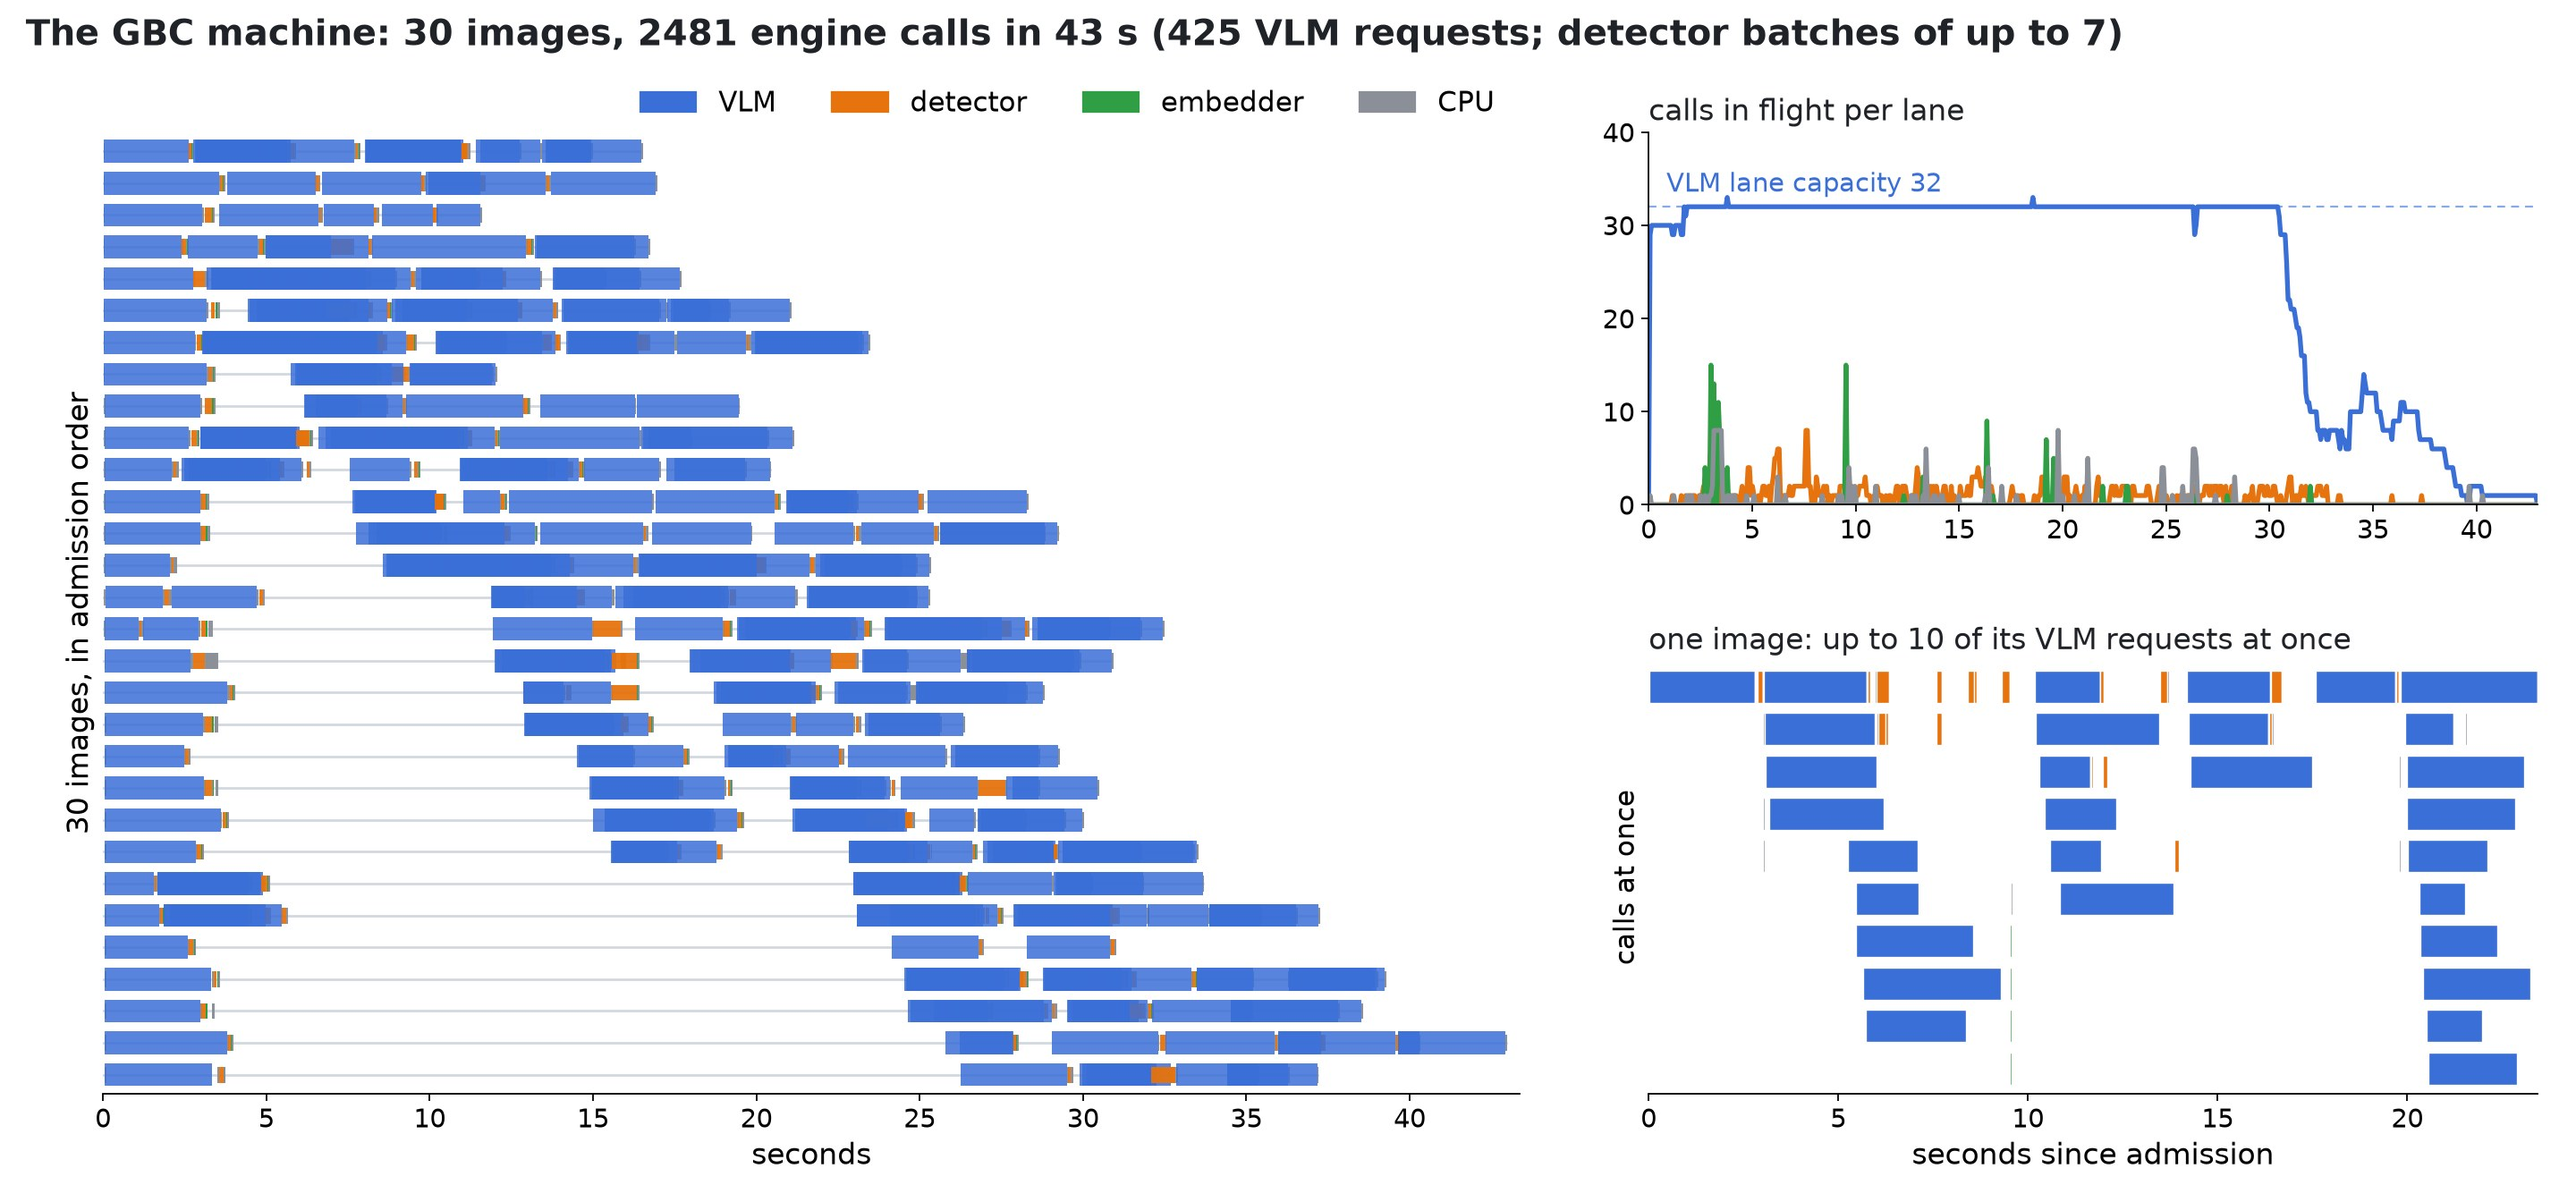
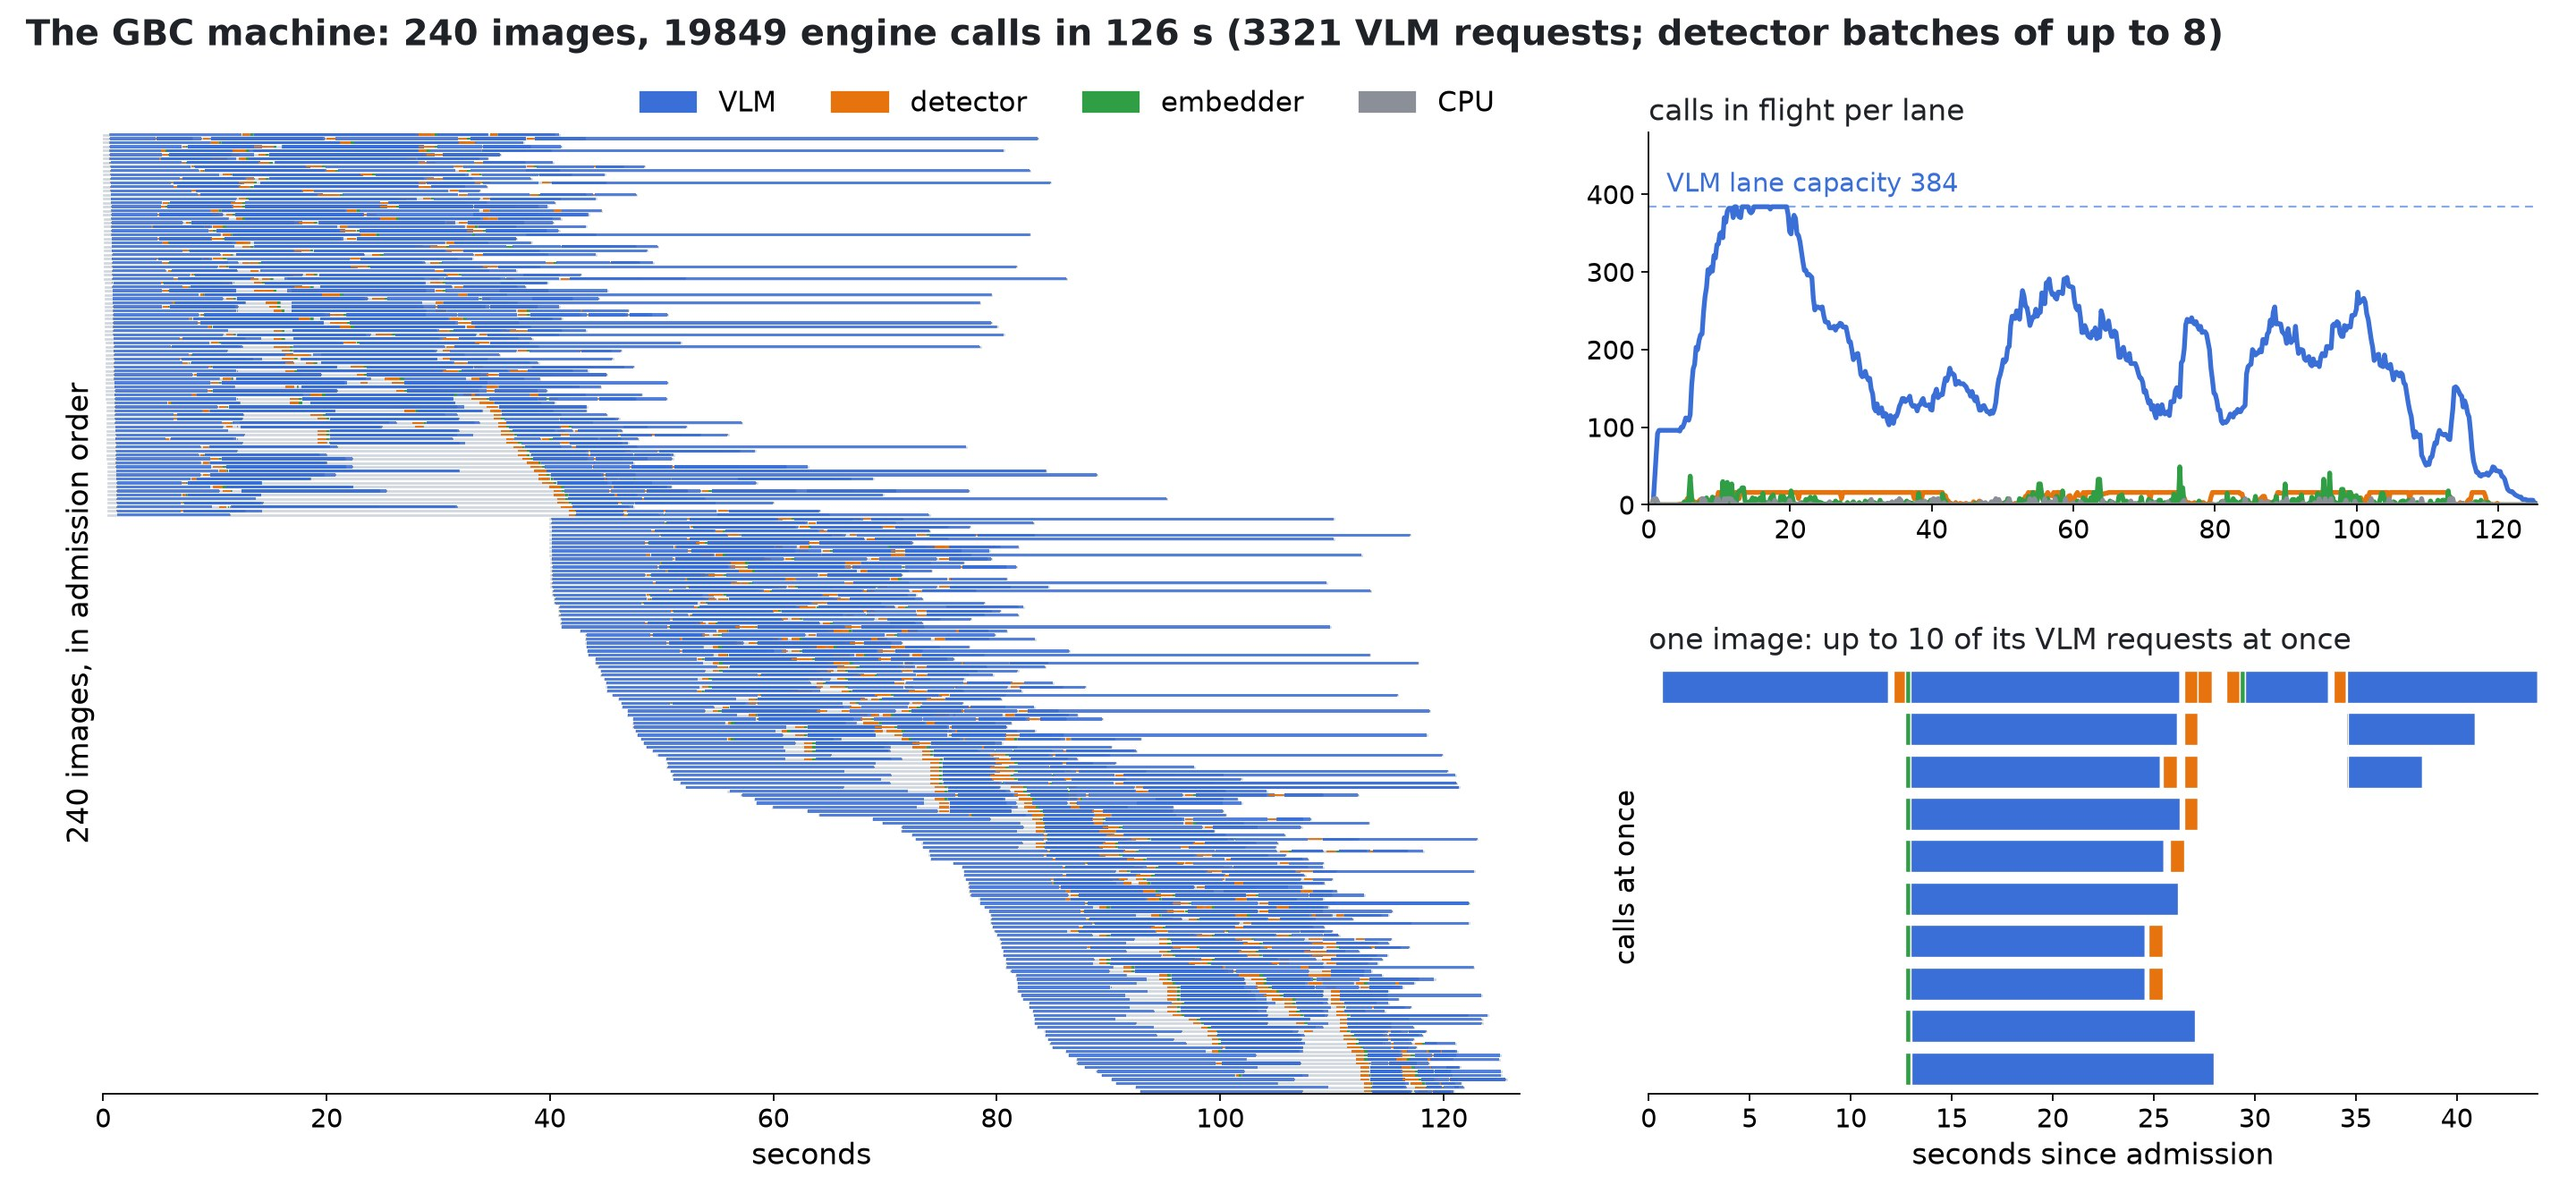
docs: README on the RTX 5090 machine, engine hosts and KohakuvLLM
Highlights carry the measured numbers (2.06 img/s per RTX 5090, 8.17 on four, KohakuvLLM 11.4 to
35.0 req/s). The machine chart shows the connectors and a gbc host per card; Measured leads with
the 5090 engine-host table and KohakuvLLM's steps; the layout chart no longer uses the reserved
id graph. The machine view is a 240-image run on one RTX 5090 with the card config's defaults.
engine-host.md names the default layout: one host per card.

diff --git a/scripts/docs/machine_view.py b/scripts/docs/machine_view.py
@@ -4,12 +4,12 @@ Left, every image job as a row and every engine call it made as a bar on its lan
 the run reads as images overlapping on shared engines. Right, the calls in flight on each lane
 over time, and one image job alone: its calls stacked where they overlap.
 
-The run behind the README's figure: ``configs/machine/replay_text.py`` (30 recorded images on
-replay engines at their recorded latencies, VLM capacity 32) with ``machine.knobs.events = "all"``
-and a run report.
+The run behind the README's figure: ``configs/machine/qwen35_card.py`` with the ``mid`` and
+``sam3`` control presets on one RTX 5090 (240 COCO val2017 images, engines in a host process,
+384 VLM lanes) with ``GBC_EVENTS=all`` and a run report (``GBC_OUT``).
 
     python scripts/docs/machine_view.py runs/machine/view/report/events.jsonl \
-        docs/assets/machine.jpg
+        docs/assets/machine.jpg --capacity 384
 """
 
 import argparse

diff --git a/README.md b/README.md
@@ -27,9 +27,21 @@ call the sequential run cannot tell apart, and turns their model calls into batc
 
 ## Highlights
 
+- **2.06 images/s on one RTX 5090, 8.17 on four.** Qwen3.5-4B, SAM 3 and EmbeddingGemma on each
+  card, about 15 vertices and 27 captions per graph; each image is 41 s in the machine at the
+  median, however long the source runs. Four cards give 3.96x one card
+  ([measured](#measured)).
+- **Engines in their own processes.** Every card's engines run in an engine host process; the
+  machine's process holds connectors and the dispatcher only, over shared memory. That is +9%
+  over the same engines in the machine's process, and the same connector reaches engines on
+  other nodes.
+- **vLLM 3.1x faster on this workload.** [KohakuvLLM](https://github.com/KohakuBlueleaf/KohakuvLLM)
+  (a drop-in vLLM plugin) takes `vllm serve` from 11.4 to 35.0 requests/s on one RTX 5090: FP8
+  GDN projections, a bf16 or INT8 GDN state, a Rust JSON grammar, and a phased scheduler. Every
+  reply is schema-valid.
 - **GBC at scale, with the models you choose.** Thousands to millions of images through a hosted
-  API, your own vLLM or SGLang servers, or everything in one process on your GPU; engines on
-  other nodes join the same lanes.
+  API, your own vLLM or SGLang servers, or engines on your GPUs; engines on other nodes join the
+  same lanes.
 - **Exactly the sequential procedure.** Every job can be recorded and replayed through KIR's
   reference interpreter. On recorded runs of GBC's proof of concept, every graph equals the
   PoC's to the digest.
@@ -231,9 +243,17 @@ images with SAM 3 (Qwen3.5-4B FP8 on vLLM, one RTX 4090, 64 VLM requests in flig
 
 ```mermaid
 flowchart LR
-    src[("source")] --> adm["admission"] --> jobs["image jobs<br/>gbc.kir, out of order"]
-    jobs <-->|"calls"| lanes["lanes<br/>vlm · detect · embed · cpu"] <--> units["engine units<br/>API · vLLM · qwen35 · torch · remote"]
-    jobs --> sink[("graphs.jsonl")]
+    subgraph proc["machine process"]
+        direction LR
+        src[("source")] --> adm["admission"] --> jobs["image jobs<br/>gbc.kir, out of order"]
+        jobs <-->|"calls"| lanes["lanes<br/>vlm · detect · embed · cpu"]
+        lanes <--> conn["connectors<br/>remote units · API units"]
+        jobs --> sink[("graphs.jsonl")]
+    end
+    conn <-->|"shm / inband"| h0["gbc host, card 0<br/>vLLM · SAM 3 · EmbeddingGemma"]
+    conn <-->|"shm / inband"| h1["gbc host, card N"]
+    conn <-->|"TCP"| far["gbc host on another node"]
+    conn <-->|"HTTP"| api["OpenAI-compatible or Anthropic API"]
 ```
 
 Togeari runs each image job like a thread on an out-of-order CPU core: statements issue as soon
@@ -243,13 +263,25 @@ result is exactly the sequential run's. Across jobs, every model call of one kin
 lane: the detect lane batches crops from many images into one forward, the VLM lane keeps its
 units' queues full.
 
-![The GBC machine on 30 recorded images: every engine call per image over time, calls in flight per lane, and one image's overlapping calls](docs/assets/machine.jpg)
+Each lane's units are connectors. With `GBC_HOSTING=process` (the default of
+`configs/machine/qwen35_card.py`), the machine starts one `gbc host` per card running that card's
+engines, and the lane holds a remote unit for each. The dispatcher then has its process's GIL to
+itself: it does not share it with vLLM's frontend or SAM 3's preparation. Images and tensors
+travel in shared-memory blocks, everything else as small messages, and capacity and load are
+reported back at least every 0.2 s
+([engine hosts](docs/internals/engine-host.md)). The same engines in the machine's process
+(`GBC_HOSTING=inprocess`) remain one setting away.
 
-One run of the machine from its event log (`scripts/docs/machine_view.py`): 30 recorded images
-on replay engines at their recorded latencies. Left, each image is a row and each engine call a
-bar on its lane's colour; the images overlap on the shared engines. Right, the VLM lane stays at
-its capacity of 32 until the last images finish, and a single image keeps up to 10 of its own VLM
-requests in flight at once.
+![The GBC machine on one RTX 5090: 240 images, every engine call per image over time, calls in flight per lane, and one image's overlapping calls](docs/assets/machine.jpg)
+
+One run of the machine from its event log (`scripts/docs/machine_view.py`). It is 240 COCO
+images on one RTX 5090 with the defaults of `configs/machine/qwen35_card.py` (engines in a host
+process, 96 resident images), taking 126 s for 19,849 engine calls (1.91 img/s, loading
+excluded). Left, each image is a row and each engine call a bar in its lane's colour. The first
+96 images are admitted at once, and each later image enters as one finishes, so images overlap
+on the shared engines. Right, the VLM lane fills to its 384 lanes as the first images fan out,
+then holds 100–300 requests in flight as images come and go. A single image keeps up to 10 of
+its own VLM requests in flight at once.
 
 | Slot | Node | Lane | Entries |
 |---|---|---|---|
@@ -344,8 +376,51 @@ were unseeded, relational questions asked once at the end by default), each diff
 
 ## Measured
 
-All on one desktop: an RTX 4090 (24 GiB), Windows 11, Python 3.13, torch 2.14. Full tables and
-methods: [docs/performance](docs/performance/README.md).
+Full tables and methods: [docs/performance](docs/performance/README.md).
+
+### The machine on RTX 5090s
+
+A Linux box with four RTX 5090s; `configs/machine/qwen35_card.py` with the `mid` and `sam3`
+control presets on COCO val2017. Qwen3.5-4B (FP8, FP8 GDN projections) runs through vLLM 0.32
+with KohakuvLLM's PhasedScheduler, grammar and INT8 GDN state, at 384 lanes and a 12 GiB KV
+cache. GBC's SAM 3 and EmbeddingGemma share the card. 96 images are resident per card, and job
+seconds are each image's time from admission to its graph
+([flagship](docs/performance/flagship.md)):
+
+| Engines | Cards | Images | img/s | Job s p50 / p90 / p99 | GPU busy |
+|---|---|---|---|---|---|
+| in the machine's process | 1 | 1200 | 1.886 | 44 / 58 / 71 | 97.2% |
+| **one engine host per card** (the default) | 1 | 1200 | **2.061** | 41 / 71 / 87 | 98.1% |
+| **one engine host per card** (the default) | 4 | 4800 | **8.165** | 42 / 67 / 84 | 96.2-97.8% |
+
+Both one-card runs make the same engine calls: 16.5k VLM, 11.1k detector and 12.1k embedder.
+The card is power-bound at 98% busy. With the engines in a host, the dispatcher keeps its GIL
+and the detector's queue drains (61 to 14 requests waiting). One machine over four cards gives
+3.96x one card with its job times unchanged. Throughput and job time hold however long the
+source runs, because admission bounds the resident images.
+
+**The VLM behind `vllm serve`**, one RTX 5090, the same workload's 1724 recorded requests
+(about 1000 prompt tokens, 100 reply tokens, one image and one JSON schema each), 512 in flight,
+mean of four cards ([KohakuvLLM](https://github.com/KohakuBlueleaf/KohakuvLLM)):
+
+| Step (`*`: KohakuvLLM) | req/s | Gain |
+|---|---|---|
+| stock vLLM (0.55 of the card, 256 seqs, xgrammar) | 11.4 | |
+| + 0.90 of the card, 384 seqs | 11.7 | +2% |
+| + FP8 GDN projections * | 12.9 | +11% |
+| + bf16 GDN state * | 26.7 | +107% |
+| + our grammar, replacing xgrammar * | 28.8 | +8% |
+| + INT8 GDN state * | 30.1 | +5% |
+| + PhasedScheduler * | **35.0** | **+16%** |
+
+In the machine, the grammar is also the fastest way to get structured replies: 1.589 img/s,
+against 1.539 for prompt + one retry, 1.426 for guidance and 1.226 for xgrammar. On RTX 3090s
+(SmoothQuant INT8, 6 GiB KV cache, the same configuration), the machine gives 0.630 img/s per
+card.
+
+### On one RTX 4090 desktop
+
+An RTX 4090 (24 GiB) on Windows 11, Python 3.13, torch 2.14.
 
 **The machine on pseudo engines** (`scripts/bench/pseudo_machine.py`: 120 recorded jobs per
 configuration, replayed latencies divided by 4). The VLM lane is the limit; the machine keeps it
@@ -372,37 +447,34 @@ the one GPU; wall time includes loading the models):
 One portrait image on the same GPU: 34 s with OWLv2, 79 s with transformers' SAM 3 (the device
 fills with SAM 3 beside the VLM).
 
-**The machine on one RTX 5090** (`configs/machine/qwen35_card.py`, 1200 COCO images, everything
-on the card; [flagship](docs/performance/flagship.md)): 2.06 img/s with each image 41 s in the
-machine at the median (87 s p99), the card at its power cap; the same throughput and latency
-however long the source runs. The engines run in an engine host process per card and the
-machine's process holds connectors only: one machine over four cards gives 8.17 img/s, each
-image still 42 s at the median.
-
-**The detector and the embedder** (GBC's own SAM 3 and EmbeddingGemma; 45 recorded detector
-requests through the detect engine, 925 names; [six GPUs and the CPU](docs/performance/detector.md)):
-
-| GPU | SAM 3, GBC's / transformers' | EmbeddingGemma fp32, GBC's / sentence-transformers' |
-|---|---|---|
-| RTX 4090 (bf16) | 2.41 s / 5.48 s | 6004 / 1472 texts/s |
-| RTX 5090 (bf16) | 1.50 s / 3.44 s | 7307 / 1726 texts/s |
-
 **The VLM alone** (`scripts/bench/vlm_units.py`: the 425 VLM requests of the text arm, 409
-measured, 64 in flight, Qwen3.5-4B):
+measured, 64 in flight, Qwen3.5-4B, stock vLLM):
 
 | Engine | Requests/s | Reply tokens/s | Latency p50 / p95 |
 |---|---|---|---|
 | `qwen35` (float32 states) | 7.48 | 828 | 7.51 s / 11.85 s |
 | vLLM 0.32 in WSL | 10.21 | 1101 | 6.18 s / 9.76 s |
 
+### The detector and the embedder
+
+GBC's own SAM 3 and EmbeddingGemma against their reference libraries: 45 recorded detector
+requests through the detect engine and 925 names
+([six GPUs and the CPU](docs/performance/detector.md)):
+
+| GPU | SAM 3, GBC's / transformers' | EmbeddingGemma fp32, GBC's / sentence-transformers' |
+|---|---|---|
+| RTX 4090 (bf16) | 2.41 s / 5.48 s | 6004 / 1472 texts/s |
+| RTX 5090 (bf16) | 1.50 s / 3.44 s | 7307 / 1726 texts/s |
+
 ## Repository layout
 
 ```mermaid
 flowchart LR
-    cli["cli"] --> machine["machine"] --> program["program"] --> nodes["nodes"] --> graph["graph (Python, Rust)"]
-    machine --> engines["engines"] --> togeari["Togeari"]
+    cli["cli"] --> machine["machine"] --> program["program"] --> nodes["nodes"] --> gbcgraph["graph (Python, Rust)"]
+    machine --> togeari["Togeari"]
+    machine --> engines["engines<br/>vlm · torch · host · replay"] --> models["kohakugbc_models<br/>detect · embed · vlm · kernels"]
+    engines --> kvllm["KohakuvLLM"]
     program --> kir["KohakuNodeIR"]
-    engines --> models["kohakugbc_models (detect, embed, kernels)"]
 ```
 
 ```

diff --git a/docs/internals/engine-host.md b/docs/internals/engine-host.md
@@ -40,8 +40,8 @@ machine's memory per card) or in a VLM host and a SAM 3 + EmbeddingGemma host (`
 CUDA context and allocator per card; on the RTX 5090 at a 12 GiB KV cache the second host runs
 out of memory by 32 MiB).
 With every slot on hosts, the machine's process holds connectors only and never touches a card.
-`configs/machine/qwen35_card.py` runs this way by default (`GBC_HOSTING=process`): per card one
-VLM host and one host for SAM 3 and EmbeddingGemma.
+`configs/machine/qwen35_card.py` runs this way by default (`GBC_HOSTING=process`,
+`GBC_HOST_LAYOUT=card`): per card one host running its VLM, SAM 3 and EmbeddingGemma.
 
 ```
 gbc host configs/engines/vlm.py --slot vlm --listen 0.0.0.0:7501   # on the engine node
